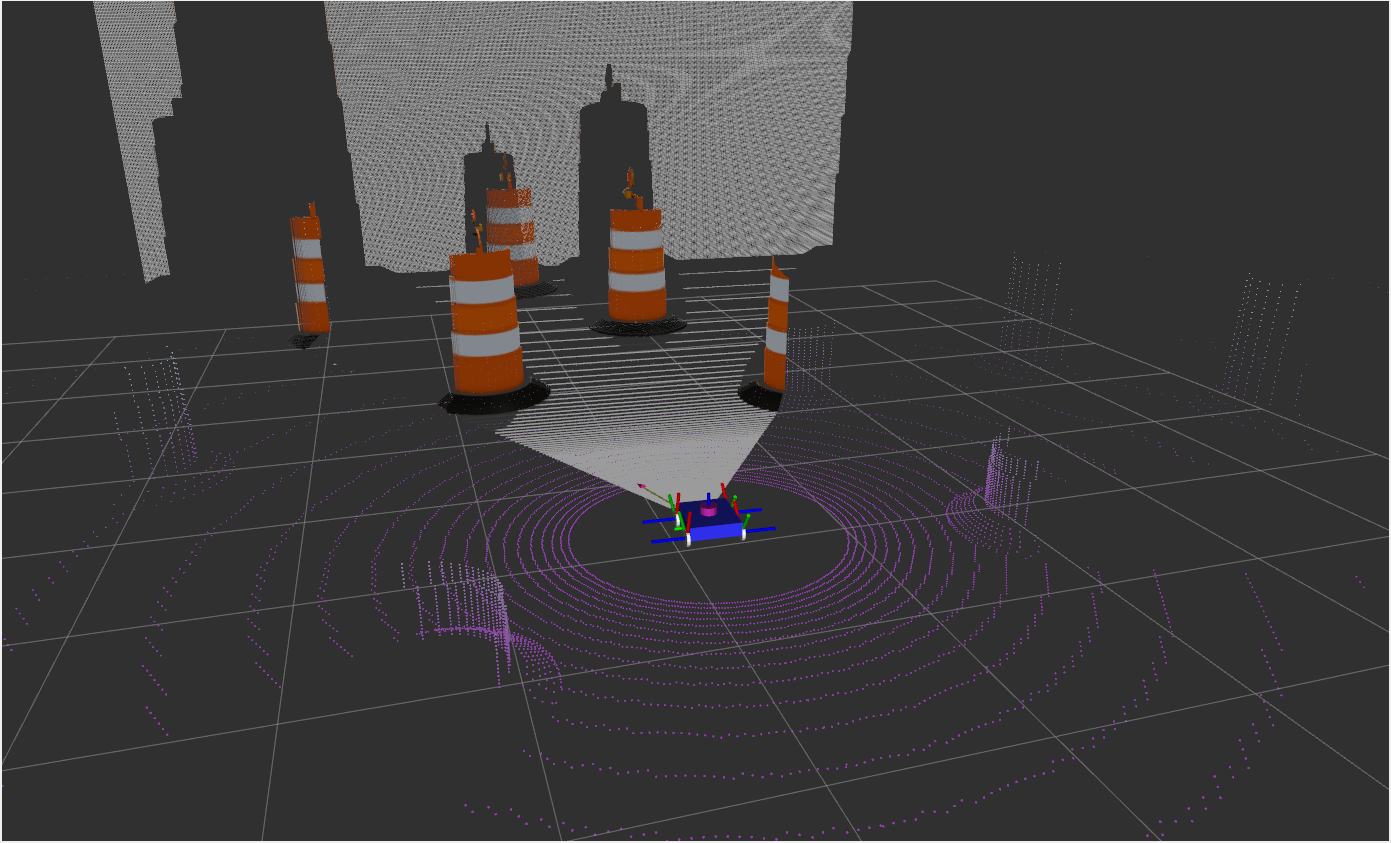
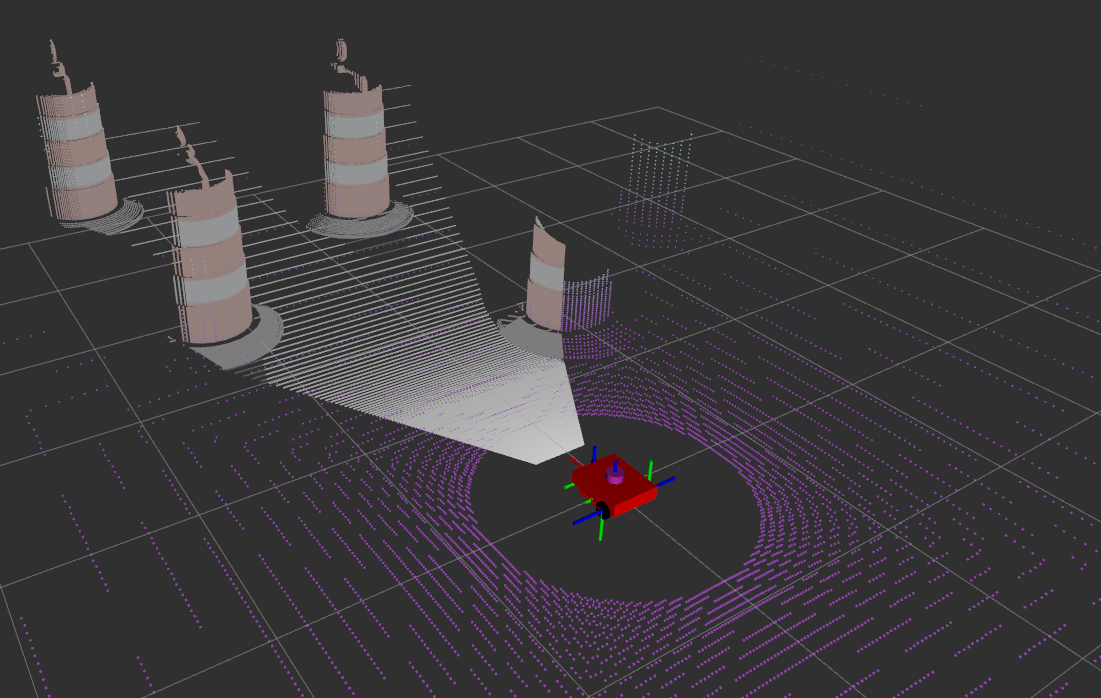
Updated media

diff --git a/README.md b/README.md
@@ -25,16 +25,19 @@ Humble | Gazebo Classic | [humble](https://github.com/Alexander-Levy/sim_bot/tre
 Humble | Fortress | [humble-new-gazebo](https://github.com/Alexander-Levy/sim_bot/tree/humble-new-gazebo) 
 
 ## Usage
-![alt text](https://github.com/Alexander-Levy/sim_bot/blob/humble/media/simulaton_sample.png "Simulation")
+![alt text](https://github.com/Alexander-Levy/sim_bot/blob/humble-new-gazebo/media/new_gazebo_sim.png "Gazebo Simulation")
+
+![alt text](https://github.com/Alexander-Levy/sim_bot/blob/humble-new-gazebo/media/simulation_sample.png "ROS Visualizer")
+
 
 ### Two Wheeled Differential Drive Robot
-The differential drive robot simulation can be run with the following command:
+The 2-wheeled differential drive robot simulation can be run with the following command:
 ```bash
 ros2 launch sim_bot diff_bot.launch.py 
 ```
 
-### Four Wheel Diff Drive  
-The differential drive robot simulation can be run with the following command:
+### Four Wheeled Differential Drive Robot  
+The 4-wheeled differential drive robot simulation can be run with the following command:
 ```bash
 ros2 launch sim_bot four_wheel.launch.py 
 ```
